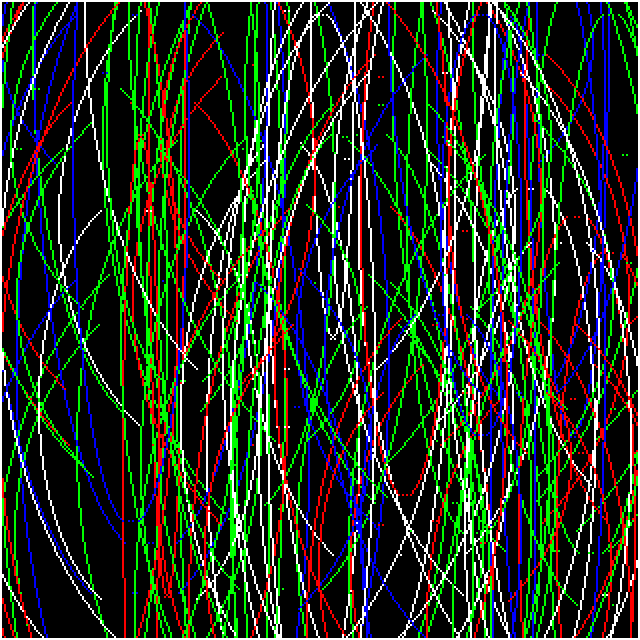
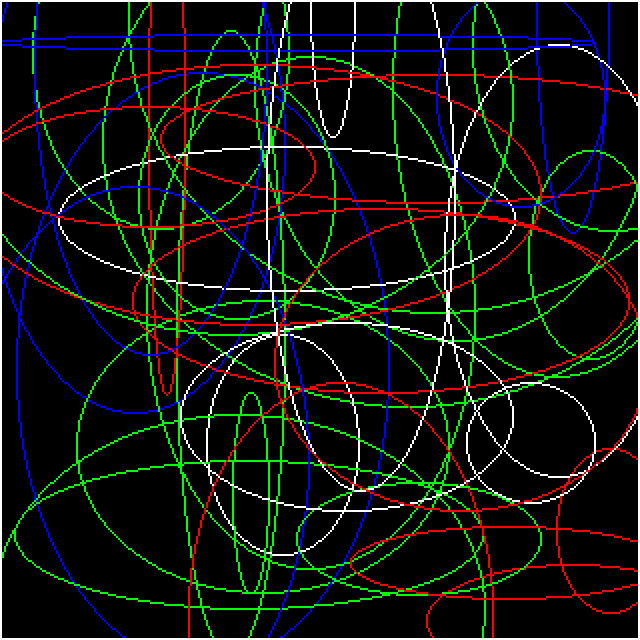
ellipse

diff --git a/DrawLine/DrawLine/utility.cpp b/DrawLine/DrawLine/utility.cpp
@@ -158,7 +158,7 @@ void Utility::addCircle(Image image, Point center, int r, Color c) {
 		return;
 	}
 
-	auto setColorForCircle = [center](Image image, int x, int y, Color c) {
+	auto setColorForCircle = [image, center, c](int x, int y) {
 		safeSet(image, center.x + x, center.y + y, c);
 		safeSet(image, center.x + x, center.y - y, c);
 		safeSet(image, center.x - x, center.y + y, c);
@@ -172,7 +172,7 @@ void Utility::addCircle(Image image, Point center, int r, Color c) {
 	int x = 0;
 	int y = r;
 	int p = 1 - r;
-	setColorForCircle(image, x, y, c);
+	setColorForCircle(x, y);
 	while (x <= y) {
 		++x;
 		if (p < 0) {
@@ -182,7 +182,7 @@ void Utility::addCircle(Image image, Point center, int r, Color c) {
 			--y;
 			p += 2 * x + 1 - 2 * y;
 		}
-		setColorForCircle(image, x, y, c);
+		setColorForCircle(x, y);
 	}
 }
 
@@ -193,7 +193,7 @@ void Utility::addEllipse(Image image, Point center, int rx, int ry, Color c)
 		return;
 	}
 
-	auto setColorForEllipse = [center](Image image, int x, int y, Color c) {
+	auto setColorForEllipse = [image, center, c](int x, int y) {
 		safeSet(image, center.x + x, center.y + y, c);
 		safeSet(image, center.x + x, center.y - y, c);
 		safeSet(image, center.x - x, center.y + y, c);
@@ -204,13 +204,15 @@ void Utility::addEllipse(Image image, Point center, int rx, int ry, Color c)
 	int ry2 = ry * ry;
 	int twoRx2 = 2 * rx2;
 	int twoRy2 = 2 * ry2;
-	int p = ry2 - rx2 * ry + rx2 * 0.25;
 	int px = 0;
 	int py = twoRx2 * ry;
 	int x = 0;
 	int y = ry;
-	setColorForEllipse(image, x, y, c);
-	while (px <= py) {
+	setColorForEllipse(x, y);
+
+	// region 1: |k| < 1
+	int p = ry2 - rx2 * ry + rx2 * 0.25;
+	while (px < py) {
 		++x;
 		px += twoRy2;
 		if (p < 0) {
@@ -221,13 +223,15 @@ void Utility::addEllipse(Image image, Point center, int rx, int ry, Color c)
 			py -= twoRx2;
 			p += ry2 + px - py;
 		}
-		setColorForEllipse(image, x, y, c);
+		setColorForEllipse(x, y);
 	}
-	p = ry2 * (x + 0.5) * (x + 0.5) + ry2 * (y - 1) * (y - 1) - rx2 * ry2;
-	while (y >= 0) {
+
+	// region 2: |k| >= 1
+	p = ry2 * (x + 0.5) * (x + 0.5) + rx2 * (y - 1) * (y - 1) - rx2 * ry2;
+	while (y > 0) {
 		--y;
 		py -= twoRx2;
-		if (p < 0) {
+		if (p > 0) {
 			p += rx2 - py;
 		}
 		else {
@@ -235,6 +239,6 @@ void Utility::addEllipse(Image image, Point center, int rx, int ry, Color c)
 			px += twoRy2;
 			p += rx2 - py + px;
 		}
+		setColorForEllipse(x, y);
 	}
-	setColorForEllipse(image, x, y, c);
 }

diff --git a/DrawLine/DrawLine/Test.cpp b/DrawLine/DrawLine/Test.cpp
@@ -28,7 +28,7 @@ void Test::drawCircle(Image image) {
 }
 
 void Test::drawEllipse(Image image) {
-	for (int i = 0; i < 100; ++i) {
+	for (int i = 0; i < 40; ++i) {
 		Point center;
 		center.x = rand() % Utility::LOGIC_WIDTH;
 		center.y = rand() % Utility::LOGIC_HEIGHT;
